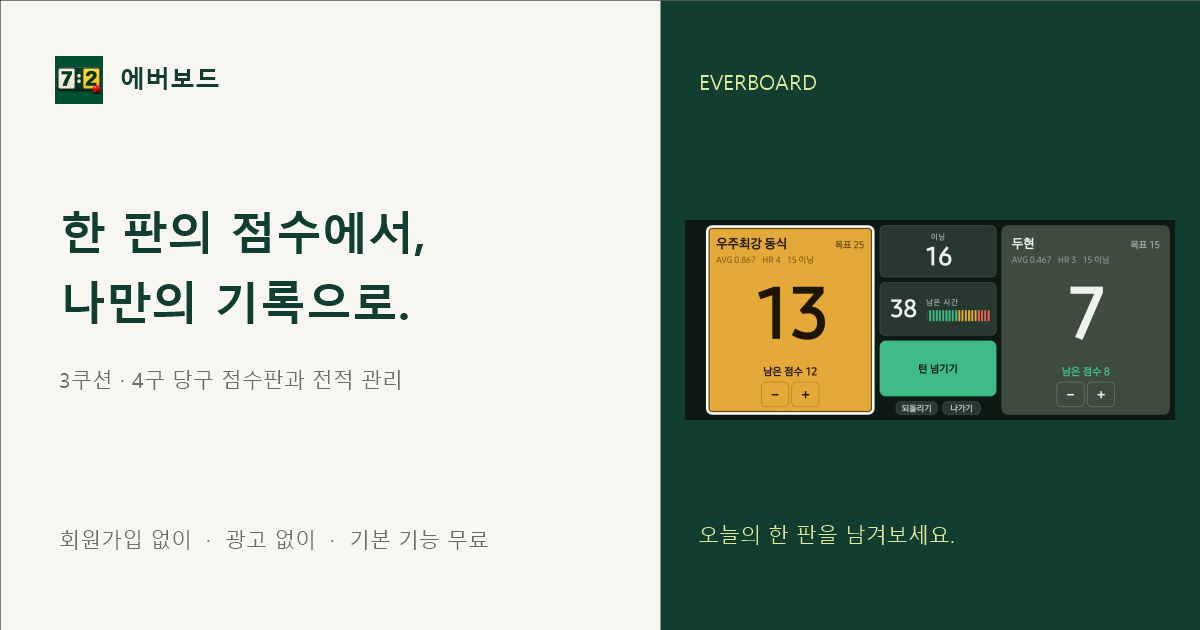
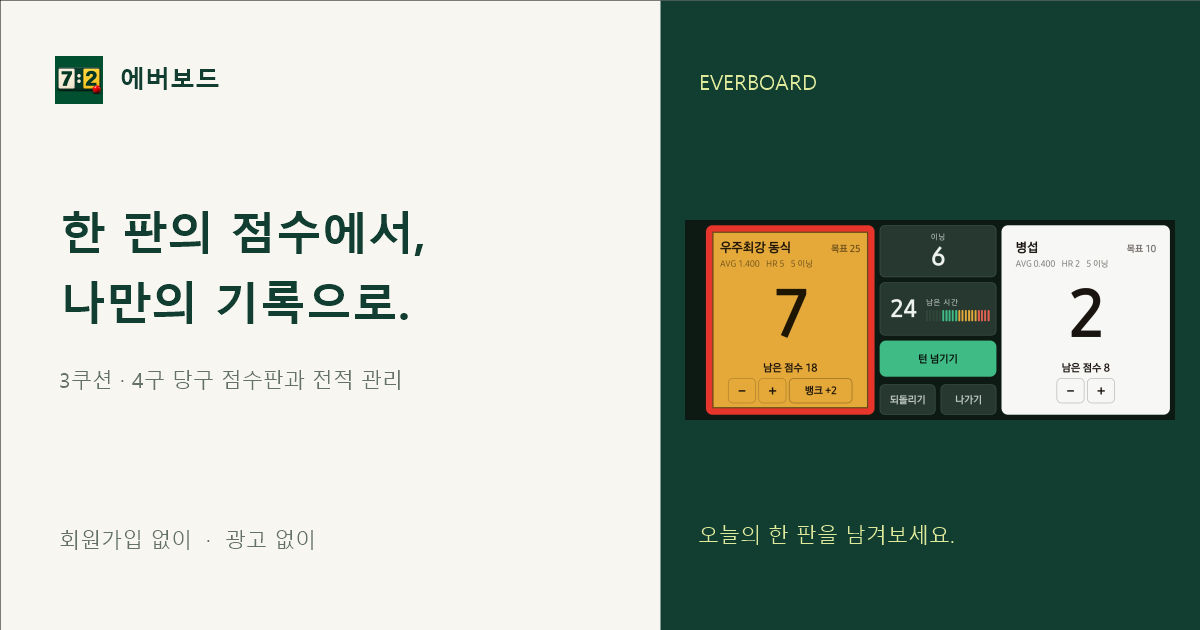
에버보드 사이트 첫 화면 점수판 사진을 1.0.14 화면으로 — 링크 미리보기 이미지도 새로(무료 문구 뺌)

Changed region(s): [[0.5858, 0.3317, 0.9867, 0.6635], [0.2775, 0.8444, 0.4008, 0.8746], [0.7708, 0.3921, 0.8017, 0.4222]]

diff --git a/everboard/index.html b/everboard/index.html
@@ -25,7 +25,7 @@
     <div class="table-lines" aria-hidden="true"><i></i><i></i><i></i></div>
     <span class="visual-label">EVERBOARD / SCORE & RECORD</span>
     <figure class="scoreboard">
-      <img class="" src="assets/game-2p.png" alt="에버보드 실제 가로 점수판. 두 선수의 점수 10 대 4와 목표점, 에버리지, 이닝, 턴 타이머가 표시됩니다." width="2316" height="947" fetchpriority="high" decoding="async">
+      <img class="" src="assets/game-2p.png" alt="에버보드 실제 가로 점수판. 두 선수의 점수 7 대 2와 목표점, 에버리지, 이닝, 턴 타이머가 표시됩니다. 지금 칠 차례인 노란 칸에 빨간 테두리가 둘려 있습니다." width="2316" height="947" fetchpriority="high" decoding="async">
       <figcaption>실제 앱 화면 · 2인 경기</figcaption>
     </figure>
     <div class="visual-bottom"><span><i class="ball white"></i><i class="ball yellow"></i><i class="ball red"></i></span><span>오늘의 한 판을 남겨보세요.</span></div>
